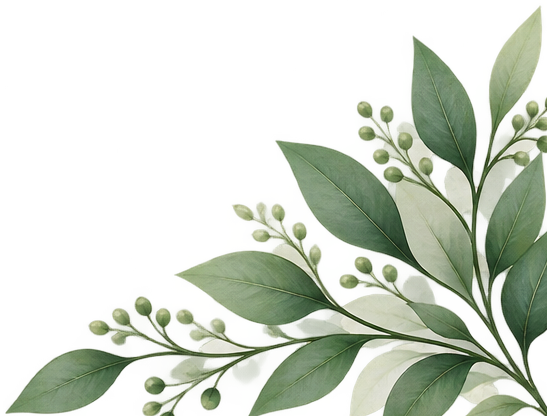
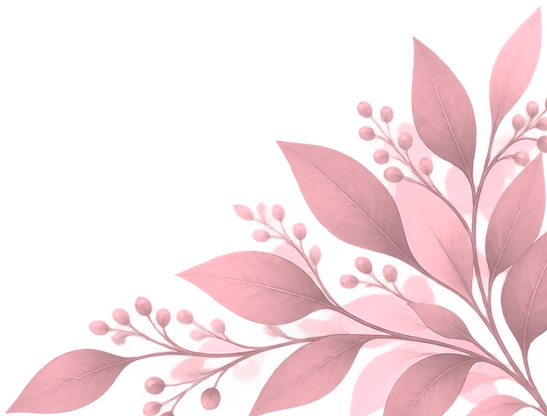
update

diff --git a/app/layout.tsx b/app/layout.tsx
@@ -187,12 +187,11 @@ export default function RootLayout({
         <meta name="format-detection" content="telephone=no,date=no,email=no,address=no" />
         <link rel="preconnect" href="https://fonts.googleapis.com" />
         <link rel="preconnect" href="https://fonts.gstatic.com" crossOrigin="anonymous" />
-        <link href="https://fonts.googleapis.com/css2?family=Cinzel:wght@400..900&display=swap" rel="stylesheet" />
-        <link href="https://fonts.googleapis.com/css2?family=Cormorant+Garamond:ital,wght@0,400;0,500;0,600;1,400;1,500&display=swap" rel="stylesheet" />
-        <link href="https://fonts.googleapis.com/css2?family=Playfair+Display:wght@400;500;600&display=swap" rel="stylesheet" />
-        <link href="https://fonts.googleapis.com/css2?family=Lavishly+Yours&display=swap" rel="stylesheet" />
-        <link href="https://fonts.googleapis.com/css2?family=Style+Script&display=swap" rel="stylesheet" />
-        <link href="https://fonts.googleapis.com/css2?family=Crimson+Text:ital,wght@0,400;0,600;0,700;1,400;1,600;1,700&display=swap" rel="stylesheet" />
+        {/* One request for all Google families — each separate stylesheet blocked first paint */}
+        <link
+          href="https://fonts.googleapis.com/css2?family=Cinzel:wght@400..900&family=Cormorant+Garamond:ital,wght@0,400;0,500;0,600;1,400;1,500&family=Crimson+Text:ital,wght@0,400;0,600;0,700;1,400;1,600;1,700&family=Lavishly+Yours&family=Playfair+Display:wght@400;500;600&family=Style+Script&display=swap"
+          rel="stylesheet"
+        />
         <link
           rel="preload"
           href="/fonts/AnastasiaScript.ttf"

diff --git a/content/site.ts b/content/site.ts
@@ -240,7 +240,7 @@ const ATTIRE = {
 // NEXT_PUBLIC_SITE_URL (env) overrides this when set.
 const SITE_URL = "https://carl-and-ellaine-rsvp.weddinginvitationrsvp.com/"
 // Image shown when the link is shared (Facebook, Messenger, Viber, X, …) — 1200×630 JPG in /public
-const LINK_PREVIEW_IMAGE = "/Details/LinkPreview.png"
+const LINK_PREVIEW_IMAGE = "/Details/link-preview-carl-ellaine.jpg"
 
 // Site address with env override applied and no trailing slash — no need to edit
 export const canonicalSiteUrl = (process.env.NEXT_PUBLIC_SITE_URL ?? SITE_URL).replace(/\/$/, "")
@@ -252,7 +252,7 @@ const DISPLAY_MODE = "plain" as "photos" | "plain"
 
 // ── Shared images ───────────────────────────────────────────────────────────
 const BRAND = {
-  monogram: "/monogram/monogram.png",
+  monogram: "/monogram/monogram-newpo.png",
   coupleNameImage: "/Details/newcoupelNames.png", // couple-name lettering (loader, envelope)
   seal: "/monogram/monogram_new.png", // envelope wax seal
   backgroundMusic: "/background_music/Goodness Of God X Oceans X Gratitude (Wedding Entrance version).mp3",

diff --git a/app/globals.css b/app/globals.css
@@ -823,15 +823,11 @@ html {
   --amp-dir: left;
 }
 
-/* Botanical decorations follow the motif (see --deco-filter). Matches corner
-   decos and eucalyptus sprigs only — not the wax seal or couple illustration.
-   The encoded variants cover images served through next/image. */
-img[src*="-deco.png"],
-img[src*="/lovestorydeco/"],
-img[src*="-deco.png&"],
-img[src*="%2Flovestorydeco%2F"] {
-  filter: var(--deco-filter);
-}
+/* Botanical decorations (corner decos, eucalyptus sprigs) are pre-tinted with
+   --deco-filter: the PNGs in public/deco are baked from the untinted originals in
+   assets/deco-original. A live CSS filter on every sprig cost each one an
+   offscreen buffer in iOS Safari / in-app browsers. If --deco-filter changes,
+   re-bake from the originals. */
 
 /* Couple names only — Anastasia Script (public/fonts/AnastasiaScript.ttf). */
 .couple-anastasia,

diff --git a/components/tinted-deco.tsx b/components/tinted-deco.tsx
@@ -7,9 +7,9 @@ interface TintedDecoProps {
 }
 
 /**
- * Botanical decoration image. Tinting comes from the global --deco-filter rule
- * in app/globals.css (matches "-deco.png" / "/lovestorydeco/" sources), so this
- * renders the <img> directly and keeps callers' sizing classes on it.
+ * Botanical decoration image. The files in public/deco are pre-tinted with
+ * --deco-filter (see app/globals.css), so this renders the <img> directly and
+ * keeps callers' sizing classes on it.
  */
 export function TintedDeco({ src, className = '', style }: TintedDecoProps) {
   if (!src) return null;

diff --git a/components/silk.tsx b/components/silk.tsx
@@ -109,7 +109,9 @@ const Silk = ({ speed = 5, scale = 1, color = "#E0B4B1", noiseIntensity = 0.5, r
   )
 
   return (
-    <Canvas dpr={[1, 2]} frameloop="always">
+    // A soft full-screen gradient: 1× resolution and no antialiasing look the same
+    // but take a fraction of the GPU memory (2× + MSAA was heavy in iOS WebViews)
+    <Canvas dpr={1} gl={{ antialias: false, powerPreference: "low-power" }} frameloop="always">
       <SilkPlane ref={meshRef} uniforms={uniforms} />
     </Canvas>
   )

diff --git a/components/loader/envelope-invite.css b/components/loader/envelope-invite.css
@@ -2520,7 +2520,7 @@
   }
 }
 
-/* Eucalyptus sprig above "SAVE the DATE" (tinted by --deco-filter in globals.css) */
+/* Eucalyptus sprig above "SAVE the DATE" (pre-tinted, see --deco-filter in globals.css) */
 .env-invite-letter-ornament {
   display: block;
   flex-shrink: 0;
